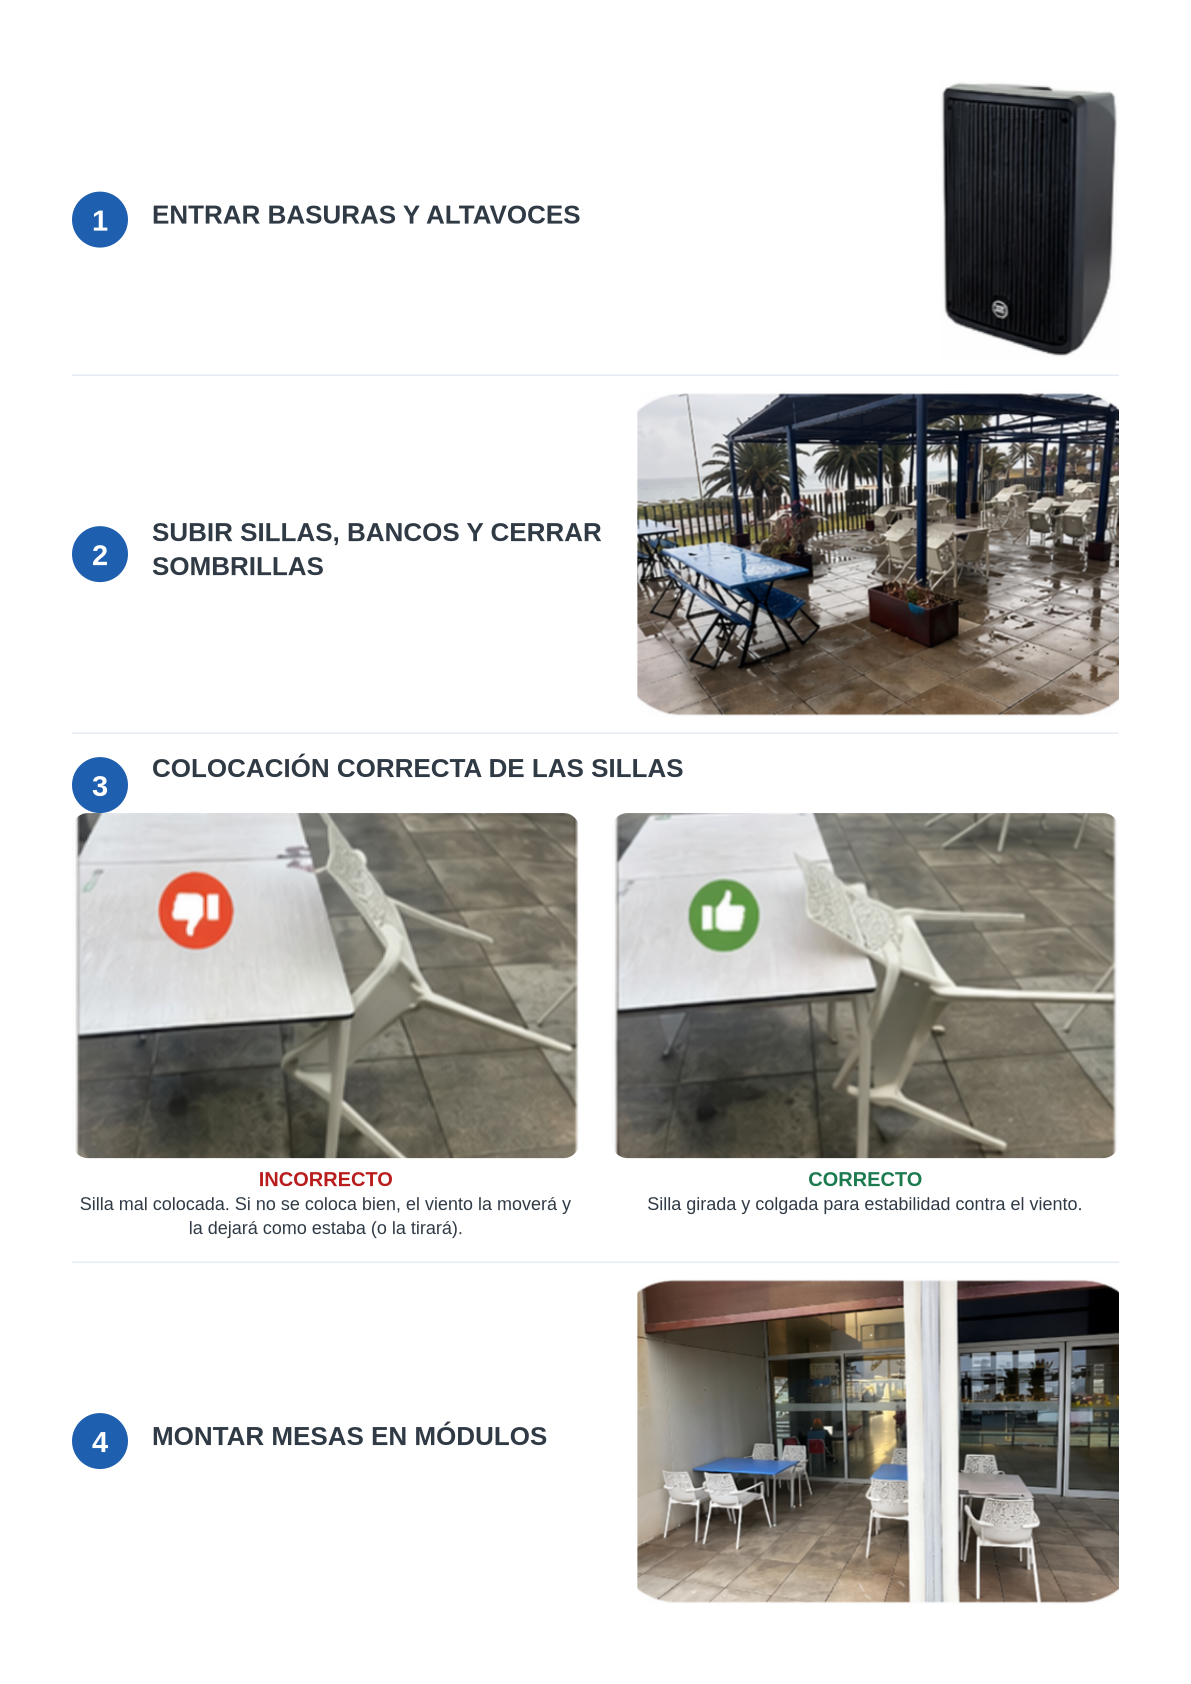
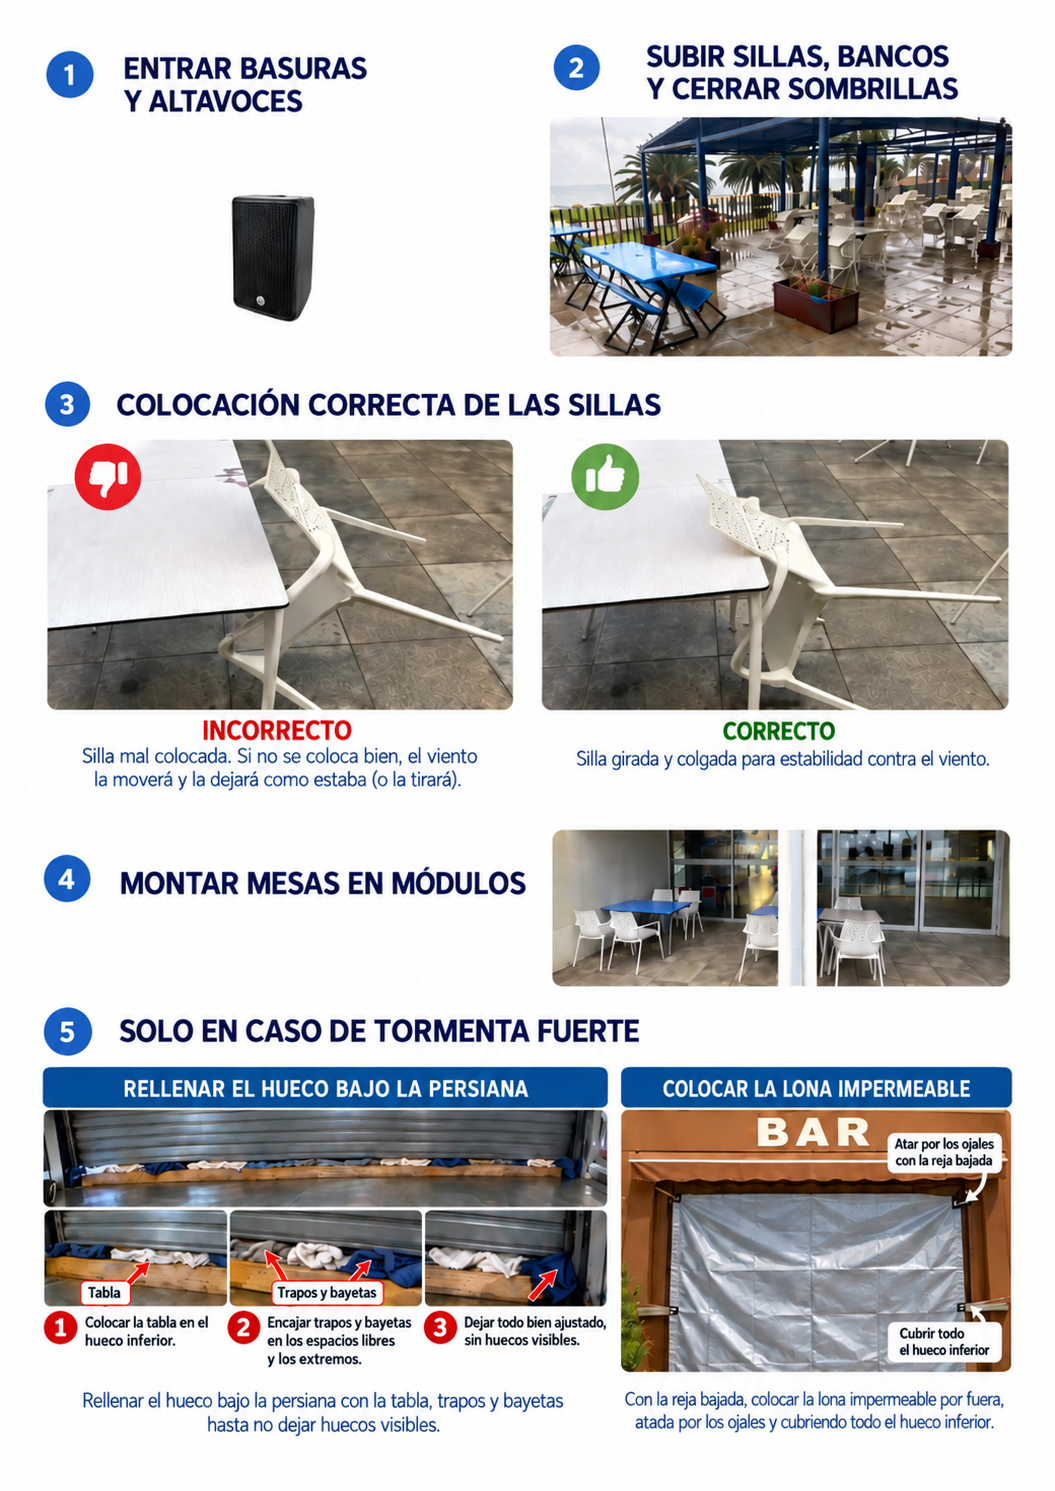
Muestra imagen completa en manual de lluvia (#85)

diff --git a/src/components/modals/RainChangesManualContent.tsx b/src/components/modals/RainChangesManualContent.tsx
@@ -1,189 +1,19 @@
-'use client';
-
 import Image from 'next/image';
-import type { ReactNode } from 'react';
 
-type ManualCrop = {
-    left: number;
-    top: number;
-    width: number;
-    height: number;
-    aspectRatio: string;
-    alt: string;
-};
-
-const SOURCE_IMAGE = '/docs/manuals/cambios-lluvia.png';
-
-const CROPS = {
-    speaker: {
-        left: 0.74,
-        top: 0.02,
-        width: 0.22,
-        height: 0.19,
-        aspectRatio: '4 / 5',
-        alt: 'Altavoz que debe guardarse dentro',
-    },
-    terrace: {
-        left: 0.52,
-        top: 0.22,
-        width: 0.43,
-        height: 0.21,
-        aspectRatio: '8 / 5',
-        alt: 'Terraza preparada para lluvia',
-    },
-    chairBad: {
-        left: 0.06,
-        top: 0.50,
-        width: 0.42,
-        height: 0.21,
-        aspectRatio: '3 / 2',
-        alt: 'Colocación incorrecta de una silla',
-    },
-    chairGood: {
-        left: 0.51,
-        top: 0.49,
-        width: 0.43,
-        height: 0.21,
-        aspectRatio: '3 / 2',
-        alt: 'Colocación correcta de una silla',
-    },
-    modules: {
-        left: 0.52,
-        top: 0.78,
-        width: 0.43,
-        height: 0.20,
-        aspectRatio: '8 / 5',
-        alt: 'Mesas montadas en módulos',
-    },
-} satisfies Record<string, ManualCrop>;
-
-function ManualImageCrop({
-    crop,
-    className = '',
-}: {
-    crop: ManualCrop;
-    className?: string;
-}) {
-    const backgroundX = crop.left / (1 - crop.width) * 100;
-    const backgroundY = crop.top / (1 - crop.height) * 100;
-
-    return (
-        <div
-            role="img"
-            aria-label={crop.alt}
-            className={`overflow-hidden rounded-xl bg-white bg-no-repeat ${className}`}
-            style={{
-                aspectRatio: crop.aspectRatio,
-                backgroundImage: `url("${SOURCE_IMAGE}")`,
-                backgroundSize: `${100 / crop.width}% ${100 / crop.height}%`,
-                backgroundPosition: `${backgroundX}% ${backgroundY}%`,
-            }}
-        />
-    );
-}
-
-function StepHeader({ number, title }: { number: number; title: string }) {
-    return (
-        <div className="flex items-center gap-3">
-            <span className="flex h-8 w-8 shrink-0 items-center justify-center rounded-full bg-ds-marca text-sm font-bold text-white">
-                {number}
-            </span>
-            <h3 className="text-sm font-bold uppercase leading-tight tracking-wide text-zinc-800 sm:text-base">
-                {title}
-            </h3>
-        </div>
-    );
-}
-
-function StepCard({
-    number,
-    title,
-    children,
-}: {
-    number: number;
-    title: string;
-    children: ReactNode;
-}) {
-    return (
-        <section className="overflow-hidden rounded-2xl bg-white p-4 text-zinc-900 shadow-sm ring-1 ring-black/5 sm:p-5">
-            <StepHeader number={number} title={title} />
-            <div className="mt-4">{children}</div>
-        </section>
-    );
-}
-
+/** El manual de lluvia se presenta tal como lo entrega el negocio. */
 export function RainChangesManualContent() {
     return (
-        <div className="min-h-0 flex-1 overflow-y-auto p-3 sm:p-4">
-            <div className="mx-auto max-w-5xl space-y-3">
-                <StepCard number={1} title="Entrar basuras y altavoces">
-                    <div className="flex justify-end">
-                        <ManualImageCrop crop={CROPS.speaker} className="w-28 sm:w-36" />
-                    </div>
-                </StepCard>
-
-                <StepCard number={2} title="Subir sillas, bancos y cerrar sombrillas">
-                    <ManualImageCrop crop={CROPS.terrace} className="ml-auto w-full max-w-xl" />
-                </StepCard>
-
-                <StepCard number={3} title="Colocación correcta de las sillas">
-                    <div className="grid gap-4 sm:grid-cols-2">
-                        <div>
-                            <ManualImageCrop crop={CROPS.chairBad} className="w-full" />
-                            <p className="mt-2 text-center text-xs font-bold uppercase text-red-600">
-                                Incorrecto
-                            </p>
-                            <p className="mt-1 text-center text-xs leading-relaxed text-zinc-600">
-                                Silla mal colocada. Si no se coloca bien, el viento la moverá y la dejará como estaba (o la tirará).
-                            </p>
-                        </div>
-                        <div>
-                            <ManualImageCrop crop={CROPS.chairGood} className="w-full" />
-                            <p className="mt-2 text-center text-xs font-bold uppercase text-emerald-700">
-                                Correcto
-                            </p>
-                            <p className="mt-1 text-center text-xs leading-relaxed text-zinc-600">
-                                Silla girada y colgada para estabilidad contra el viento.
-                            </p>
-                        </div>
-                    </div>
-                </StepCard>
-
-                <StepCard number={4} title="Montar mesas en módulos">
-                    <ManualImageCrop crop={CROPS.modules} className="ml-auto w-full max-w-xl" />
-                </StepCard>
-
-                <StepCard number={5} title="Solo en caso de tormenta fuerte">
-                    <p className="mb-4 text-sm font-medium text-zinc-600">
-                        Además de los cuatro pasos anteriores, proteger también el cierre del bar:
-                    </p>
-                    <div className="grid gap-4 lg:grid-cols-2">
-                        <div className="overflow-hidden rounded-xl border border-zinc-200 bg-zinc-50">
-                            <Image
-                                src="/docs/manuals/cambios-lluvia/storm-shutter-gap.webp"
-                                alt="Rellenar el hueco bajo la persiana con una tabla, trapos y bayetas"
-                                width={480}
-                                height={247}
-                                className="h-auto w-full"
-                            />
-                            <p className="p-3 text-sm leading-relaxed text-zinc-700">
-                                Rellenar el hueco bajo la persiana con la tabla, trapos y bayetas hasta no dejar huecos visibles.
-                            </p>
-                        </div>
-                        <div className="overflow-hidden rounded-xl border border-zinc-200 bg-zinc-50">
-                            <Image
-                                src="/docs/manuals/cambios-lluvia/storm-exterior-tarp.webp"
-                                alt="Lona impermeable colocada por fuera con la reja bajada"
-                                width={460}
-                                height={376}
-                                className="h-auto w-full"
-                            />
-                            <p className="p-3 text-sm leading-relaxed text-zinc-700">
-                                Con la reja bajada, colocar la lona impermeable por fuera, atada por los ojales y cubriendo todo el hueco inferior.
-                            </p>
-                        </div>
-                    </div>
-                </StepCard>
+        <div className="mx-auto w-full max-w-5xl pb-ds-2">
+            <div className="overflow-hidden rounded-ds-superficie">
+                <Image
+                    src="/docs/manuals/cambios-lluvia.png"
+                    alt="Manual de cambios por lluvia: recoger altavoces, sillas y mesas, y proteger el bar en caso de tormenta fuerte"
+                    width={1055}
+                    height={1491}
+                    sizes="(max-width: 640px) calc(100vw - 2rem), 1024px"
+                    unoptimized
+                    className="block h-auto w-full"
+                />
             </div>
         </div>
     );

diff --git a/marbella-os/2-diseno/SISTEMA-DE-COMPONENTES.md b/marbella-os/2-diseno/SISTEMA-DE-COMPONENTES.md
@@ -249,6 +249,7 @@ Piezas transversales con comportamiento propio y contrato estricto. **Estas sí 
 - **`className` del panel** solo admite composición externa (flex, overflow, tipografía de tono…). `pickModalPanelClassName` descarta max-width/max-height, padding, margin, radio, sombra, fondo y z-index. Ancho y alto los fija la variante / tokens del shell. Deuda de consumidores que aún pasan tokens de shell: allowlist `LEGACY_MODAL_PANEL_CLASSNAME_ALLOWLIST` (el runtime ya filtra).
 - **Inset del Body:** el shell aplica `padding-inline` + `padding-top` por defecto. Un hijo raíz con padding superior o lateral de `espacio.4` o más puede duplicarlo; el padding solo inferior no. Una composición que necesite expresamente otro inset lo declara en el hijo con `data-design-exception="modal-root-padding:motivo"`. El gate `findModalRootPaddingClassNames` acepta esa excepción local y sigue señalando los casos no declarados. No se compensa con CSS inverso.
 - **Contenido visual a sangre:** `fullBleedBody` elimina solo el inset horizontal del Body cuando el contenido necesita gestionar su propia separación. El plano de Cambio usa esta opción para dar al plano un margen local de `espacio.2` (8 px) en los laterales y abajo. El recorte de la imagen y su contorno comparten un único radio `radio.superficie` (16 px), igual al del panel del modal. La separación vertical Header → Body y el inset de la cabecera permanecen contractuales; los controles dentro del Body resuelven su propia separación. En Cambio, el fondo del plano y los iconos de caja son imágenes separadas: el fondo empieza ligeramente atenuado y se atenúa más al seleccionar la primera caja; todos los iconos mantienen opacidad plena hasta que se selecciona la segunda, momento en el que solo se atenúan los no seleccionados. Inicial se desplaza ligeramente a la izquierda y Cambio 2 a la derecha; sus rótulos se sitúan algo más arriba a la misma altura, con el de Inicial ligeramente hacia la derecha y el de Cambio 2 ligeramente hacia la izquierda, y limitan su ancho para no montarse en planos estrechos. Cada caja seleccionada muestra su nombre blanco bajo la imagen redondeada del resumen superior, sin fondo ni contorno. Bajo el plano se lee en gris y tamaño de 10 px, como excepción local para esta indicación, «Selecciona las dos cajas que intervienen en el cambio.»; el aviso de diferencia de importes sigue disponible en esa zona. Las zonas pulsables conservan la selección y el zoom permite desplazar el plano. Las flechas viven en el resumen superior, fuera del plano; los dos botones verdes «Añadir cantidad» bajo las cajas seleccionadas abren el desglose de cada dirección.
+- El modal «Cambios por lluvia» muestra el manual como una única imagen completa, sin reconstruir sus pasos en tarjetas o textos externos. La imagen conserva su proporción, se desplaza con el Body en pantallas pequeñas y recorta las cuatro esquinas con `radio.superficie`.
 - **Footer:** acciones con `<Button>` oficial (texto, sin iconos por defecto; excepción icono + texto declarada en Button). Los botones del pie se igualan al ancho del mayor: el shell envuelve el contenido en `footer-actions` (grid `1fr`, sin JS). Un único `<Button>` no cambia. Un componente de pie con layout propio (`CashCountFooter`, total a la izquierda) no se iguala por el shell; iguala sus propios botones. Gate: ningún `<button>` nativo nuevo en `footer=`; deuda en `LEGACY_MODAL_FOOTER_NATIVE_BUTTON_ALLOWLIST`.
 - **`zIndexClass`:** deprecated; allowlist vacía — uso nuevo falla test. Preferir `layer`.
 - **`backdropClassName`:** deprecated salvo excepciones documentadas (`LEGACY_MODAL_BACKDROP_CLASSNAME_ALLOWLIST`: lightbox de carta). El backdrop lo posee la capa ([ADR-0008](../4-decisiones/ADR-0008-modal-backdrop-capas.md)).

diff --git a/marbella-os/5-estado/CHANGELOG.md b/marbella-os/5-estado/CHANGELOG.md
@@ -15,6 +15,8 @@ supersede: PROJECT_STATUS.md (función de historial)
 
 ## 2026-10-08
 
+- **Cambios por lluvia muestra el manual completo en una imagen.** El contenido reconstruido con tarjetas y textos se sustituye por la lámina proporcionada, con las cuatro esquinas redondeadas y desplazamiento vertical en móvil.
+
 - **Cambio precisa la indicación del plano y acerca sus rótulos.** La frase bajo la imagen pasa a «Selecciona las dos cajas que intervienen en el cambio.» con letra ligeramente menor. Inicial y Cambio 2 suben un poco; el nombre de Inicial se mueve a la derecha y el de Cambio 2 a la izquierda, conservando un límite de ancho para evitar solapes.
 
 - **Compra simplifica la selección de cajas y del vuelto.** Los iconos de caja comparten línea con «Caja», flotan sin tarjeta y muestran el nombre con peso normal. «Escanear albarán» se ajusta al texto y adopta el volumen de «Calculadora». El vuelto se añade desde un botón naranja que abre un desglose con Guardar/Cancelar; solo puede volver a una caja real que aportó dinero, y el destino se fija automáticamente cuando solo hay una.

diff --git a/marbella-os/.generated/AFIRMACIONES.md b/marbella-os/.generated/AFIRMACIONES.md
@@ -1,5 +1,5 @@
 <!-- Generado desde 55 documentos de marbella-os/.
-     Huella del origen: 3dfa1a20255e99cf
+     Huella del origen: 805c358575af0563
      NO EDITAR A MANO: se regenera con `npm run generate:corpus`, y
      `npm run validate:corpus` compara este fichero con lo que produce
      el generador. Cualquier edición manual se detecta. -->

diff --git a/marbella-os/.generated/CARGA-DE-CONTEXTO.md b/marbella-os/.generated/CARGA-DE-CONTEXTO.md
@@ -1,5 +1,5 @@
 <!-- Generado desde 69 documentos de marbella-os/.
-     Huella del origen: 65d6037d3c59bbcf
+     Huella del origen: 37c69998c5c6ab88
      NO EDITAR A MANO: se regenera con `npm run generate:corpus`, y
      `npm run validate:corpus` compara este fichero con lo que produce
      el generador. Cualquier edición manual se detecta. -->

diff --git a/marbella-os/.generated/OBSOLESCENCIA.md b/marbella-os/.generated/OBSOLESCENCIA.md
@@ -1,5 +1,5 @@
 <!-- Generado desde 46 documentos de marbella-os/.
-     Huella del origen: 762f8c1f9591e2cc
+     Huella del origen: d892d3ea1ca2538a
      NO EDITAR A MANO: se regenera con `npm run generate:corpus`, y
      `npm run validate:corpus` compara este fichero con lo que produce
      el generador. Cualquier edición manual se detecta. -->
